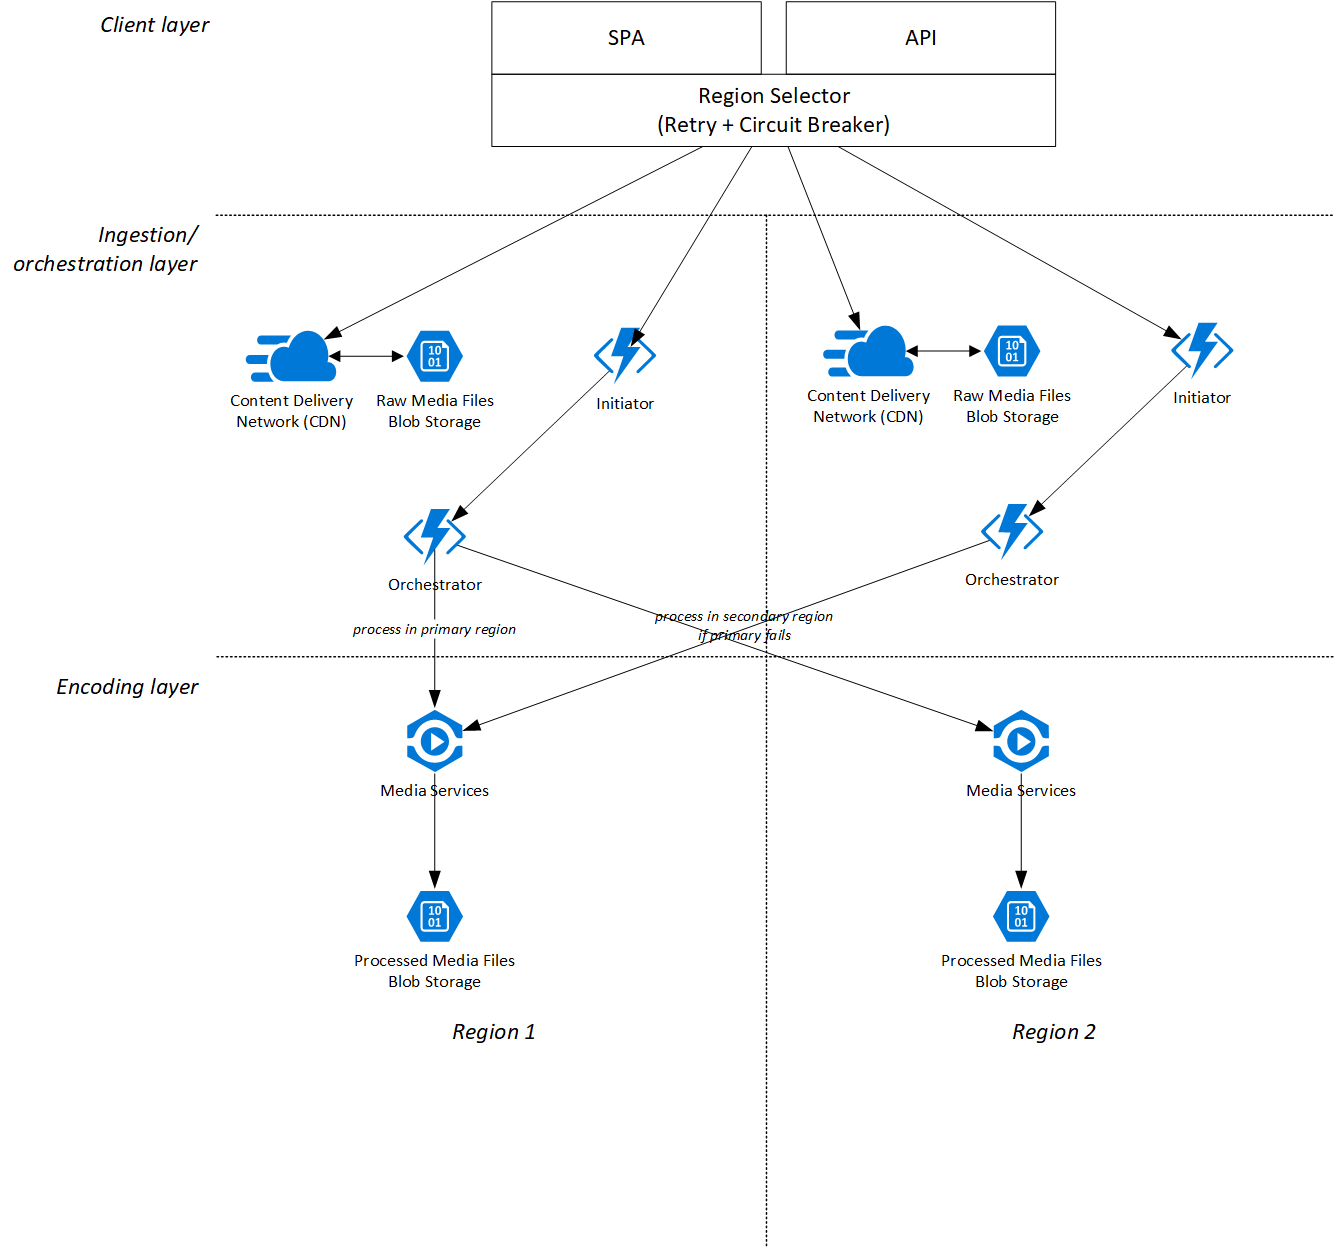
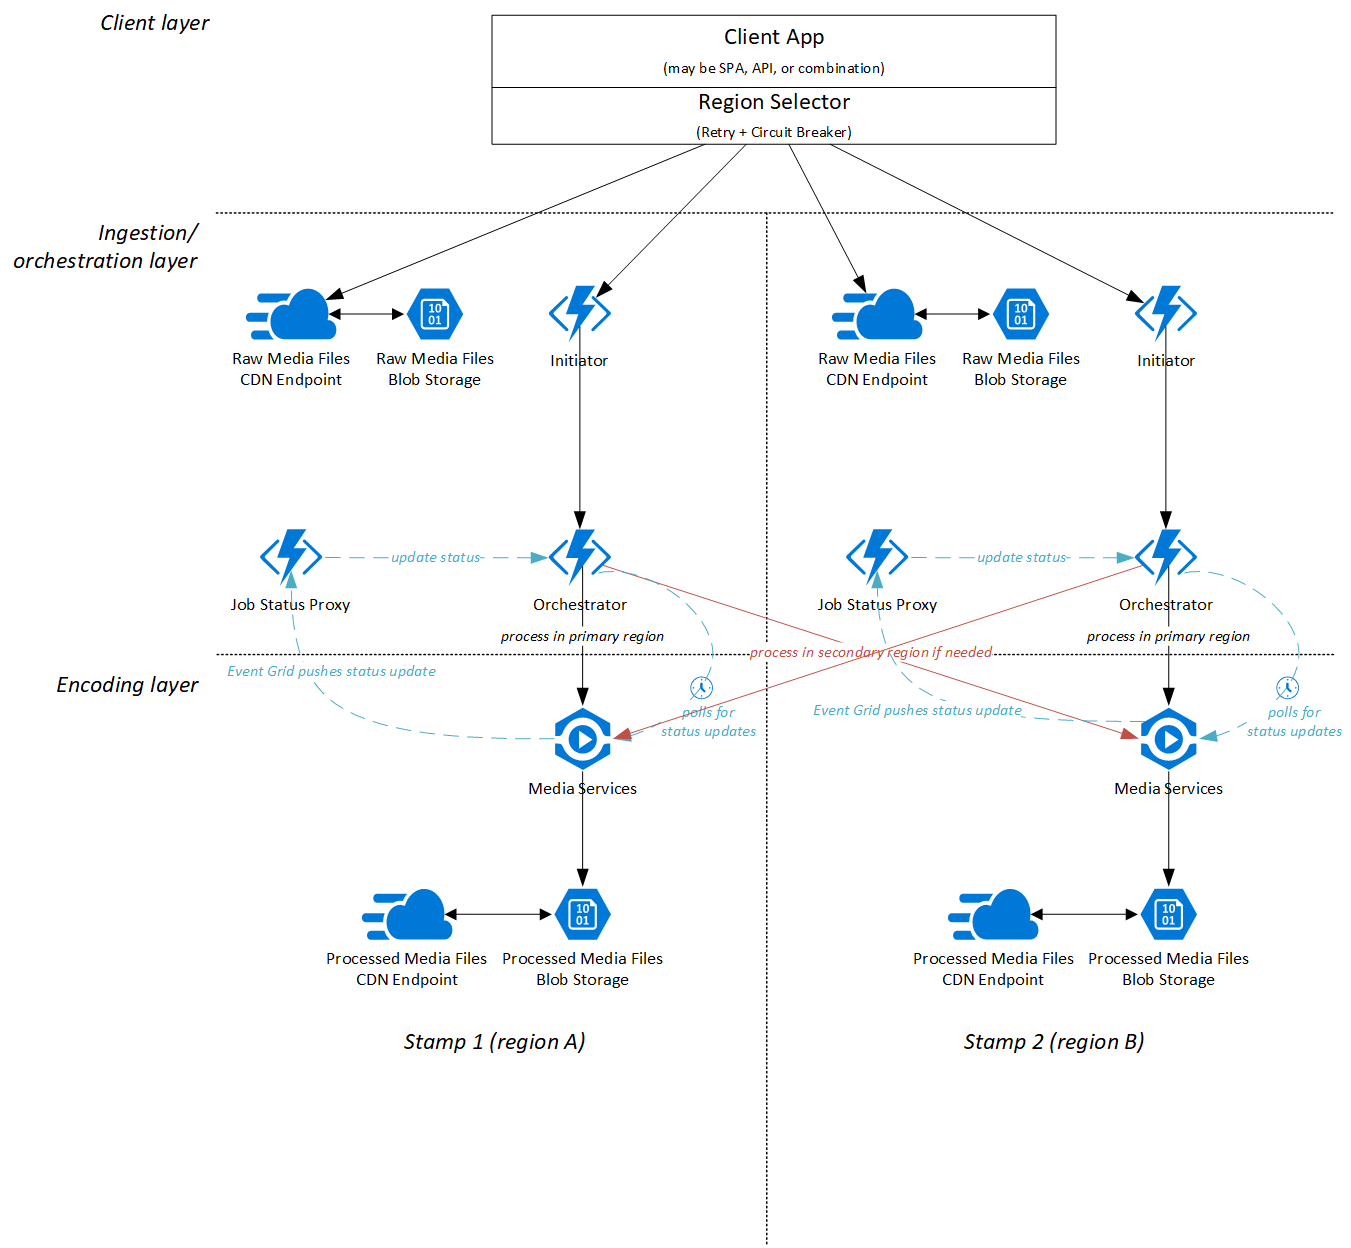
Update with further evolution of thinking

diff --git a/README.md b/README.md
@@ -7,34 +7,69 @@ This is an implementation of a variant of the [Scheduler Agent Supervisor patter
 ## Solution design
 
 This solution involves three layers, each with varying levels and types of redundancy:
+
 1. The *client layer* is in the client application, which uploads blobs to a CDN or storage account and then communicates with the orchestration layer to begin processing the media file. In the event of a failure when uploading the file or communicating with the orchestration layer, the client must retry the request or fail over to an orchestration layer in an alternate region.
+
 2. The *orchestration layer* is responsible for accepting a media file to process, and then initiating a long-running process to request the encoding of the media file at the encoding layer. The orchestration layer supervises the encoding process, and if it determines that an encoding job has failed due to a regional issue, it will retry in an alternative region. Once an encoding job has been successfully completed, the orchestration layer can notify the client and provide a URL to the encoded file.
+
 3. The *encoding layer* is comprised of a set of Azure Media Services instances, as well as a storage account and CDN endpoint associated with each AMS instance.
 
 The following diagram illustrates these components:
 
 ![Architecture diagram](diagram.png)
 
-Media blobs that require encoding are uploaded to a regional ingestion blob storage container. The client must select a blob storage container to use, and may have multiple strategies for doing so such as round-robin (i.e. evenly distribute requests to all available blob containers) or regional affinity (i.e. send all requests to a storage account within a designated region, unless that storage account is unavailable).
 
-Once blobs have been written to the storage account, the client will notify the orchestration layer that the job is ready for processing. The orchestration layer is implemented as a durable function, and it orchestrates a series of attempts to encode the media using Azure Media Services. The first attempt will use the Azure Media Services instance within the same region as the function app. If the attempt fails due to an error or times out, the function then selects an alternative Azure Media Services instance in another region to submit the request to.
+## Overall request flow
 
-Azure Media Services writes the output file to a blob storage container. If a client application requires notification for further processing, an [Event Grid subscription could be used to achieve this behaviour](https://docs.microsoft.com/en-us/azure/media-services/latest/reacting-to-media-services-events).
+1. The *client* is responsible for uploading raw media blobs to a regional Azure CDN endpoint backed by a regional ingestion blob storage container. The client must select a regional CDN endpoint to use, and may have multiple strategies for doing so such as round-robin (i.e. evenly distribute requests to all available regions) or regional affinity (i.e. send all requests to a designated region, unless that region is unavailable). The CDN will handle writing the blob to a storage account. The client should not proceed with the subsequent step until the CDN has completed the write request. The client should use a combination of the [Retry](https://docs.microsoft.com/en-us/azure/architecture/patterns/retry) and [Circuit Breaker patterns](https://docs.microsoft.com/en-us/azure/architecture/patterns/circuit-breaker) to handle both transient failures and regional outages.
 
-### Fault tolerance
+2. Once blobs have been written to the CDN, the client will notify the orchestration layer that the job is ready for processing. This is achieved by making a synchronous (HTTP) request to the *Initiator* function, including the HTTP URL of the media file to process. Importantly, the CDN URL of the file should be provided and not the blob storage URL; this is to both enhance performance and guard against regional blob storage failures. In the event that the preferred region's *Initiator* function is not responsive, the client can retry against an alternative region without re-uploading the file.
+
+3. The *Initiator* function initiates a durable function orchestration within the *Orchestrator* function app. The durable function orchestration manages a series of attempts to encode the media using Azure Media Services. The first attempt will use the Azure Media Services instance within the same region as the function app. If the attempt fails due to an error or times out, the *Orchestrator* function then selects an alternative AMS instance in another region to submit the request to.
+
+4. Job progress status updates from AMS will be captured in two ways. First, the [Azure Media Services Event Grid topic](https://docs.microsoft.com/en-us/azure/media-services/latest/reacting-to-media-services-events) will publish status updates; these cannot be sent directly into the *Orchestrator* function due to the way that Event Grid handles suscription validation, so a *Job Status Proxy* function acts as a sink for the Event Grid events and sends them to the *Orchestrator* function by making use of [Durable Functions' support for external events](https://docs.microsoft.com/en-us/azure/azure-functions/durable/durable-functions-external-events). Second, the *Orchestrator* function also will occasionally directly poll the AMS API for job progress updates if it has not received an event within a given time threshold.
+
+5. Once the job is completed, AMS will write the output file to a blob storage container, which in turn is fronted by an Azure CDN endpoint. Each region has its own set of AMS instances with paired blob storage accounts and CDN endpoints. The *Orchestrator* will become aware of the completion of the job using the same status update pathway described above, and will receive the final output blob URL from AMS. To enhance redundancy, the *Orchestrator* will map the URL of the encoded media blob to use the CDN endpoint URL rather than a blob storage account URL. The *Orchestrator* can then perform any necessary actions to notify the client of the completion of the job.
+
+
+## Orchestrator function logic
+
+The *Orchestrator* function is responsible for ensuring that the media encoding job is processed, including acting as a supervisor of the job and performing corrective action if availability issues are observed. It also can perform other functions if needed, including scaling the AMS instances and reporting job status to the client.
+
+[Sub-orchestrations](https://docs.microsoft.com/en-us/azure/azure-functions/durable/durable-functions-sub-orchestrations) are used in order to encapsulate the region-specific AMS processing logic.
+
+The core logic for the orchestrator function is:
+
+* Perform any initial steps, such as scaling AMS if needed.
+* Calculate the expected time for the job. This must be calculated in order to detect abnormally long processing times, which might indicate a problem with the AMS instance processing the job. For simplicity this solution uses a fixed value of 20 minutes. However, a better approach would be to use historical data to calculate this based on the length of the raw file, such as the 99th percentile of the processing time for a media file of the specified length and format.
+* Initiate the sub-orchestration (described below) against the primary region.
+  * If that sub-orchestration fails, initiate the sub-orchestration against the secondary region.
+* If at least one of the sub-orchestrations have completed successfully, map the AMS encoded output URL from a blob storage URL to a CDN URL.
+* Peform any post-job cleanup, such as scaling down AMS.
+* Notify any interested clients of the final status of the job.
+
+### Sub-orchestration: Submit and Monitor Job
+
+* Submit job to specified AMS instance and retrieve job ID.
+* Loop until the timeout has elapsed:
+  * Wait for an external status update event from the *Job Status Proxy*. Set a timeout of 10 minutes.
+  * If no update has been received within the 10 minute timeout, synchronously request the job status from the AMS API.
+  * If the job status is `Error`, terminate the sub-orchestration and report the status as `failed` to the parent orchestration.
+  * If the job status is `Processing`, compare the actual elapsed time against the expected time calculated by the parent orchestration. If the expected time has been exceeded, assume AMS is no longer responsive. Terminate the sub-orchestration and report the status as `failed` to the parent orchestration.
+  * If the job status is `Finished`, obtain the output blob URL. Terminate the sub-orchestration and report the URL and `succeeded` status to the parent orchestration.
+
+[For more details on the use of Durable Functions to implement the Monitor pattern, see the documentation.](https://docs.microsoft.com/en-us/azure/azure-functions/durable/durable-functions-overview#monitoring)
+
+## Fault tolerance
 
 The following types of outages are mitigated by this approach:
 
 1. **Blob storage regional outages and faults.** In the event of a regional issue with Azure Storage that prevents the client from uploading blobs, the client application will route the writing of blobs to the secondary region.
 2. **Blob storage partial failures.** In the event of a blob storage failure after the client has successfully uploaded the blob but before it has processed it, the CDN may have cached a copy of the file. Therefore, there is some resiliency to failures in the blob storage service.
 3. **Azure Media Services regional outages and faults.** In the event of a regional issue with Azure Media Services, the orchestration layer will eventually determine that the service is unhealthy and will route requests to an AMS instance in the secondary region.
+4. **Event Grid regional outages and faults.** In the event of an issue preventing Event Grid sending AMS status updates to the components within the *Ingestion/Orchestration Layer*, the polling operations within the durable function orchestrator will nevertheless request job progress status updates from AMS and will take action on these as needed.
 
 Furthermore, this approach allows for geo-distribution of the workloads. If the client application is aware of the locations of the regions, it can direct user traffic in the first instance to the closest or best-performing region.
-
-
-## Assumptions
-
-1. **Timeout calculation.** The expected processing time for a given media file must be calculated in order to detect abnormally long processing times. For simplicity this sample uses a fixed value of 20 minutes. However, a better approach would be to use historical data to calculate a metric such as the 99th percentile of the processing time for a media file of the specified length and format.
 
 
 ## Advantages and disadvantages
@@ -50,10 +85,10 @@ However, the approach has a number of disadvantages and caveats:
 1. **Delayed processing.** In the event of a problem with Azure Media Services that results in timeouts, it may take some time before the orchestrator recognises this and attempts to reprocess the media file in a secondary region. If processing time and availability are critical for your solution, consider lowering the timeout threshold or even sending the job to multiple regions in the first instance rather than waiting for a problem. This will result in additional processing costs.
 
 2. **Additional costs.** A highly available solution of this nature will result in additional costs. These can be broken into three categotries:
-   * *Infrastructure:* Geo-replication of this nature requires application components to be deployed to multiple regions. This will increase the run cost of the solution. 
+   * *Infrastructure:* Geo-replication of this nature requires application components to be deployed to multiple regions. This will increase the run cost of the solution.
    * *Media processing:* The nature of this solution is that media may be processed multiple times. The frequency of this happening will depend in part on the fault tolerance logic and the determination of whether the primary region is available.
    * *Data egress:* If media files are stored within one region and processed in another, they may be subject to [Azure egress traffic pricing](https://azure.microsoft.com/en-us/pricing/details/bandwidth/). However, [by using Azure CDN, this cost is minimised](https://azure.microsoft.com/en-us/pricing/details/cdn/).
 
-3. **Limited scope.** This solution is not designed to provide high availability across every component of the solution. Single points of failure still exist, including the function app and the [Azure Storage components used by the Durable Functions SDK](https://docs.microsoft.com/en-us/azure/azure-functions/durable/durable-functions-perf-and-scale). Alternative approaches would be necessary to mitigate this risk.
+3. **Limited scope.** This solution is not designed to provide high availability across every component of the solution. Single points of failure still exist, including the function app and the [Azure Storage components used by the Durable Functions SDK](https://docs.microsoft.com/en-us/azure/azure-functions/durable/durable-functions-perf-and-scale). In the event that a request is accepted into a region's *Ingestion/Orchestration layer* and then a regional outage occurs in these components, jobs may not be completed until the outage is resolved. Alternative approaches would be necessary to mitigate this risk.
 
 4. **Region awareness.** Each layer in this solution needs to be aware of the regions used to deploy the next layer down: the client layer needs to be aware of the CDN endpoints for all regions in which the ingestion/orchestration layer is deployed, and the orchestrator function needs to be aware of the AMS endpoints and associated blob storage accounts for all regions in which the encoding layer is deployed.
